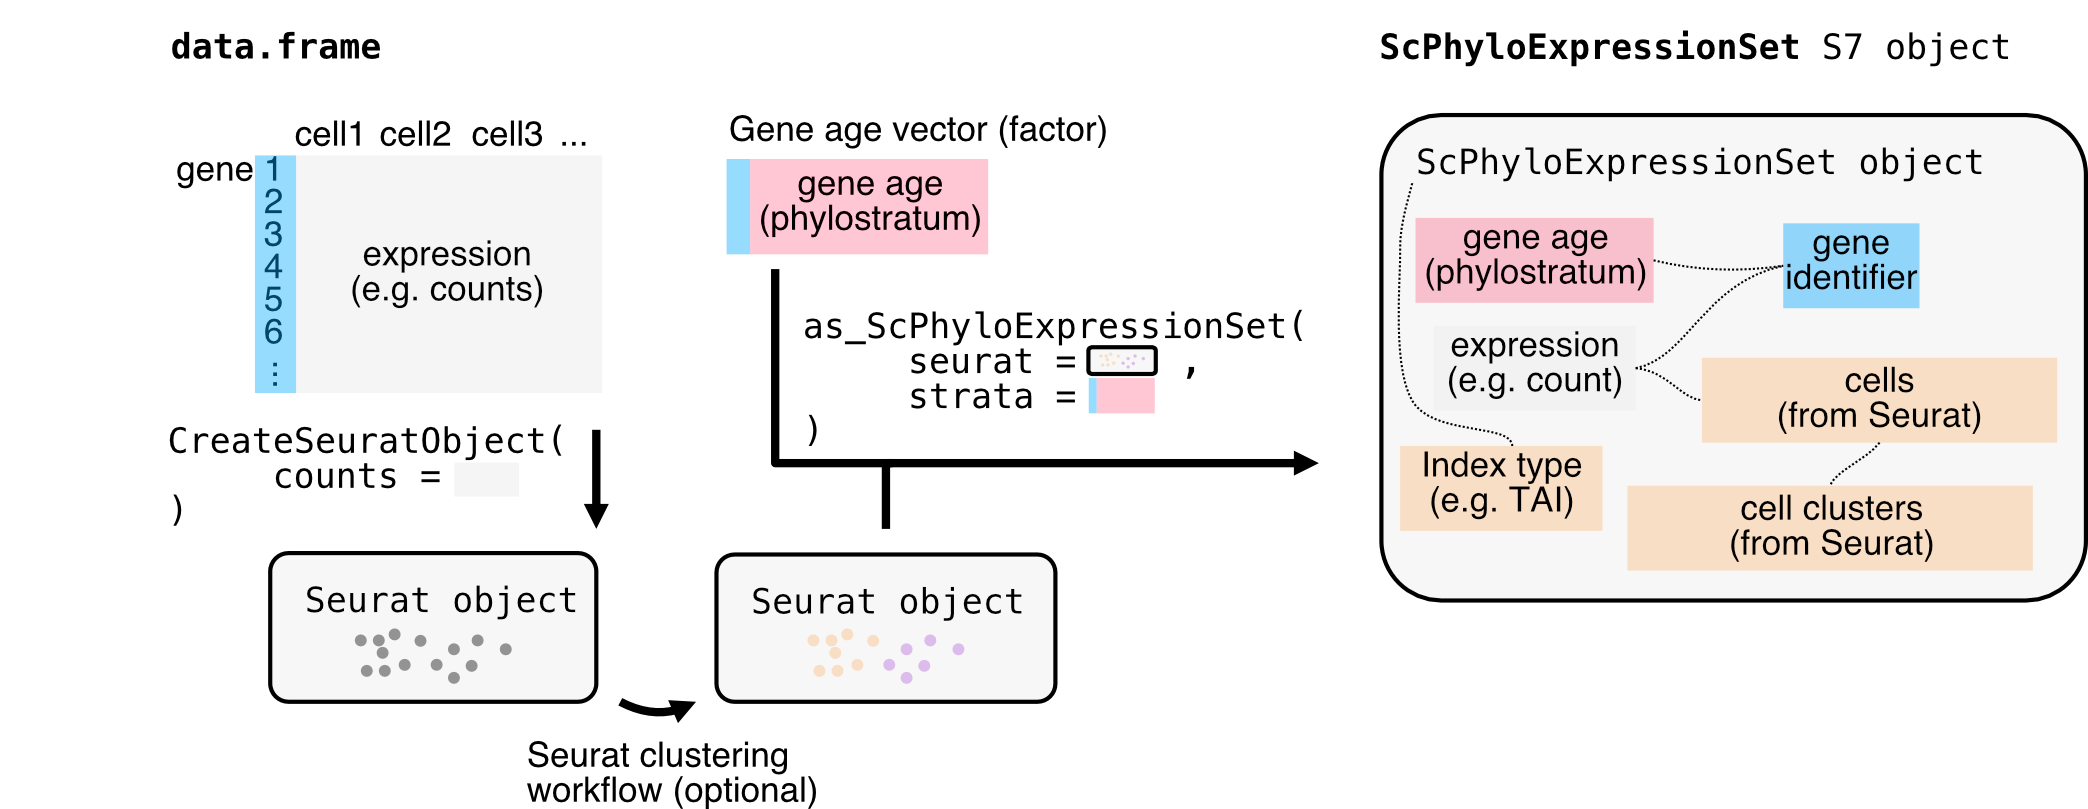
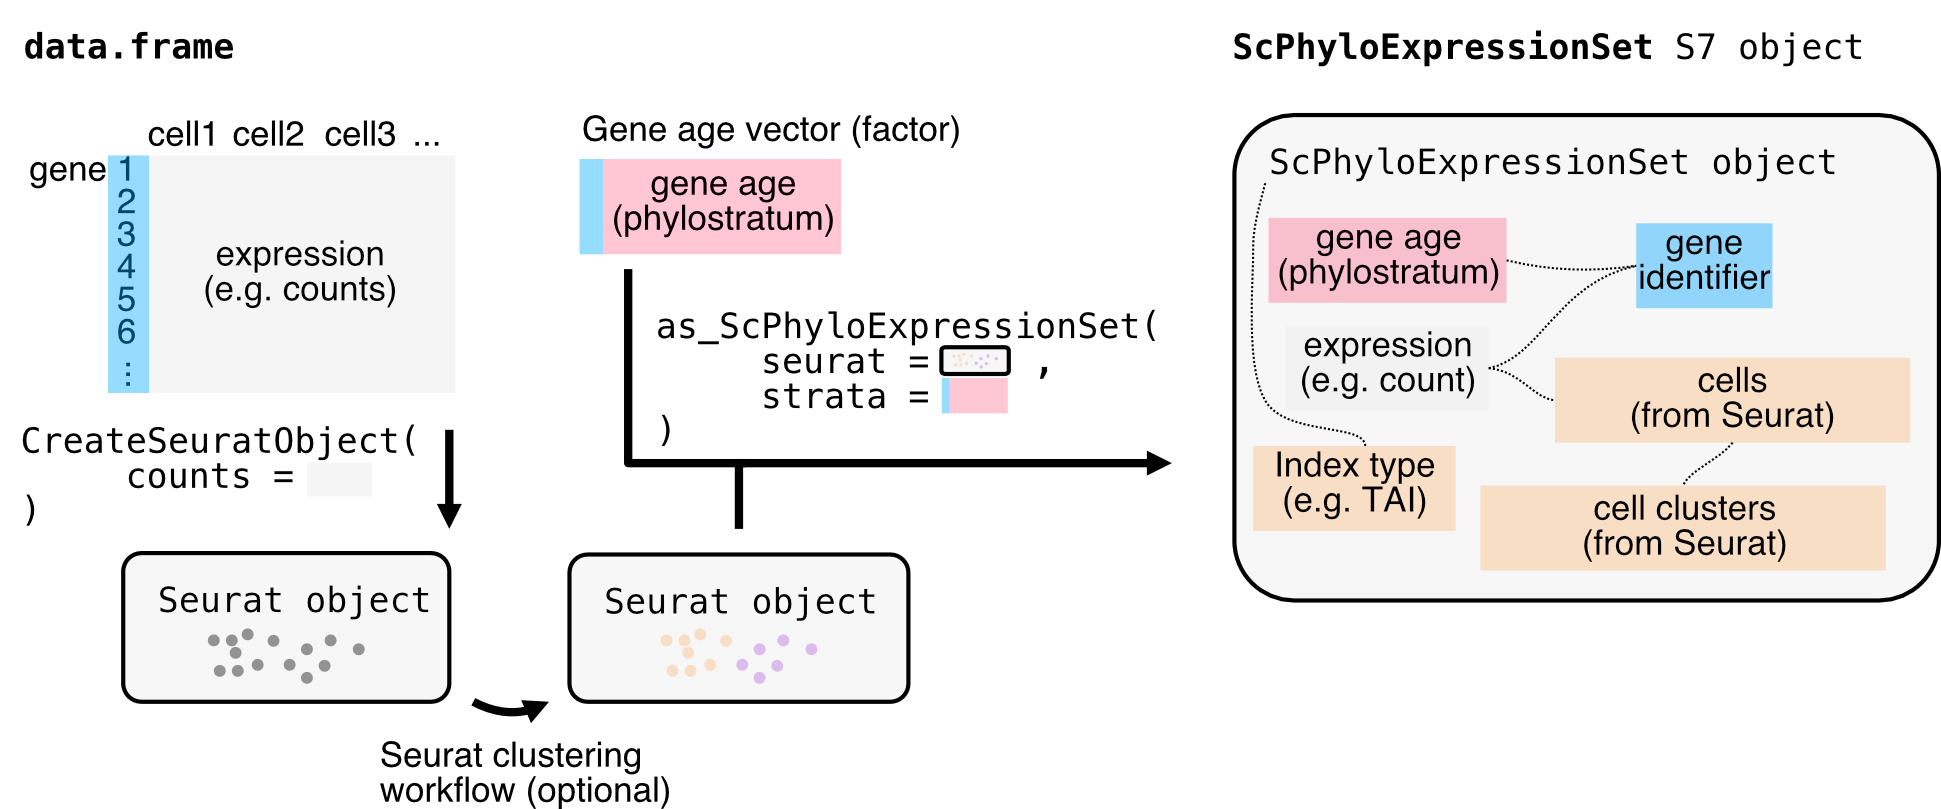
Added object class information in `README.md` and cropped the myTAI_scphyex.png.

diff --git a/docs/articles/phylo-expression-object.html b/docs/articles/phylo-expression-object.html
@@ -325,7 +325,7 @@ operator, for example:
 <div class="sourceCode" id="cb18"><pre class="downlit sourceCode r">
 <code class="sourceCode R"><span><span class="va">example_phyex_set.remake</span> <span class="op">|&gt;</span> </span>
 <span>    <span class="fu">myTAI</span><span class="fu">::</span><span class="fu"><a href="../reference/plot_signature.html">plot_signature</a></span><span class="op">(</span><span class="op">)</span></span></code></pre></div>
-<pre><code><span><span class="co">## Computing: [=================                       ] 42%  (~1s remaining)       Computing: [====================================    ] 89%  (~0s remaining)       Computing: [========================================] 100% (done)</span></span></code></pre>
+<pre><code><span><span class="co">## Computing: [==================                      ] 44%  (~1s remaining)       Computing: [===================================     ] 87%  (~0s remaining)       Computing: [========================================] 100% (done)</span></span></code></pre>
 <p><img src="phylo-expression-object_files/figure-html/unnamed-chunk-18-1.png" alt="plot signature function output for bulk RNAseq" width="576" style="display: block; margin: auto;"></p>
 </div>
 <div class="section level4">

diff --git a/README.md b/README.md
@@ -311,6 +311,23 @@ library(myTAI)
 browseVignettes("myTAI")
 ```
 
+## Object classes in `myTAI`
+
+[Workflow to load your own dataset](https://drostlab.github.io/myTAI/articles/phylo-expression-object.html):
+
+**bulk**
+
+<img src="docs/articles/Figures/myTAI_phyex.png" alt="PhyEx overview" align="center" style="max-height: 500px; max-width: 500px;" />
+
+**bulk with replicates**
+
+<img src="docs/articles/Figures/myTAI_phyex_group.png" alt="PhyEx replicates overview" align="center" style="max-height: 500px; max-width: 500px;" />
+
+**single cell**
+
+<img src="docs/articles/Figures/myTAI_scphyex.png" alt="scPhyEx overview" align="center" style="max-height: 500px; max-width: 500px;" />
+
+
 ## Discussions and Bug Reports
 
 We would be very happy to learn more about potential improvements of the concepts and functions
